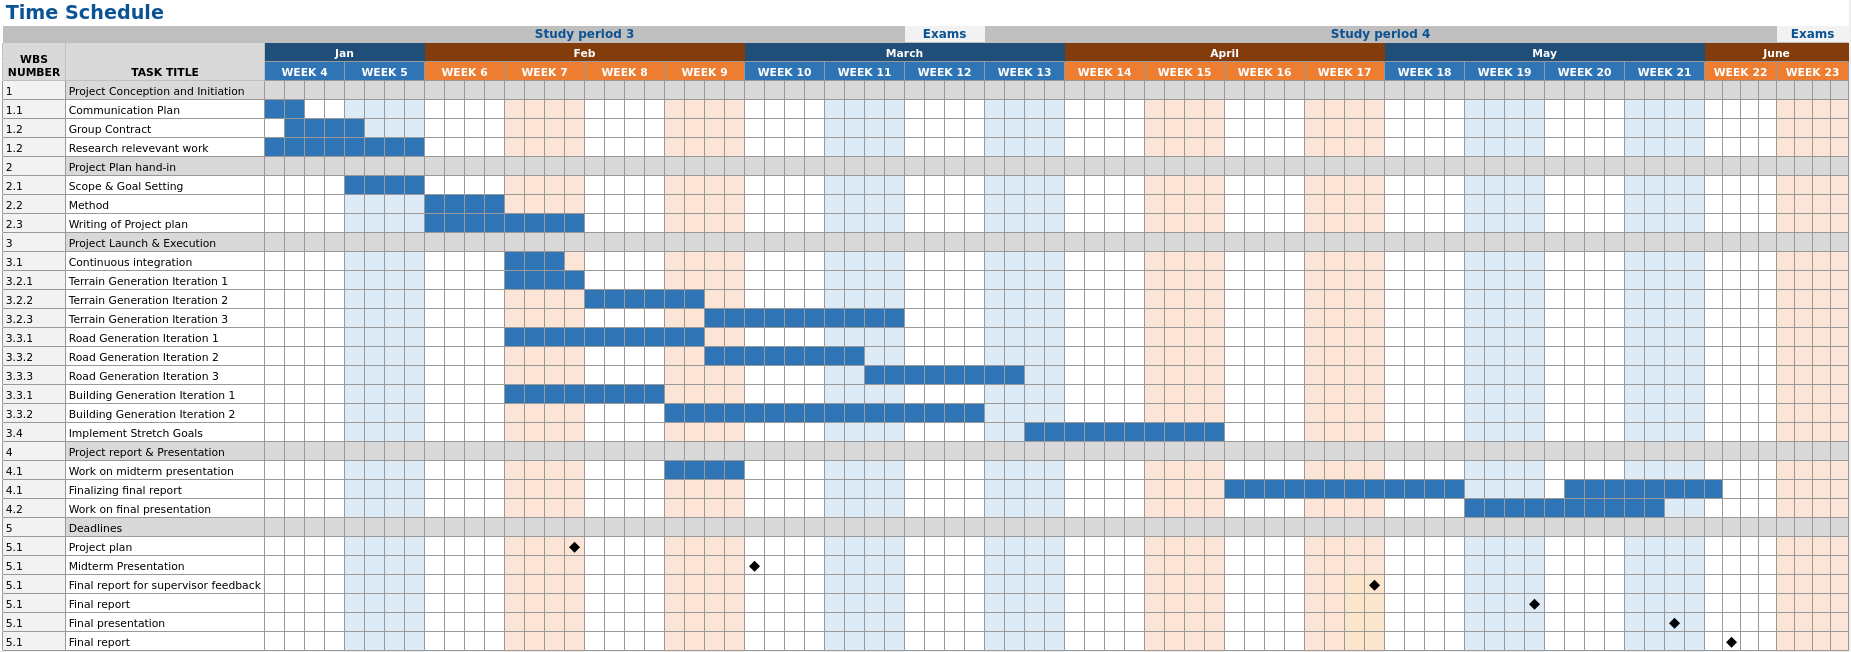
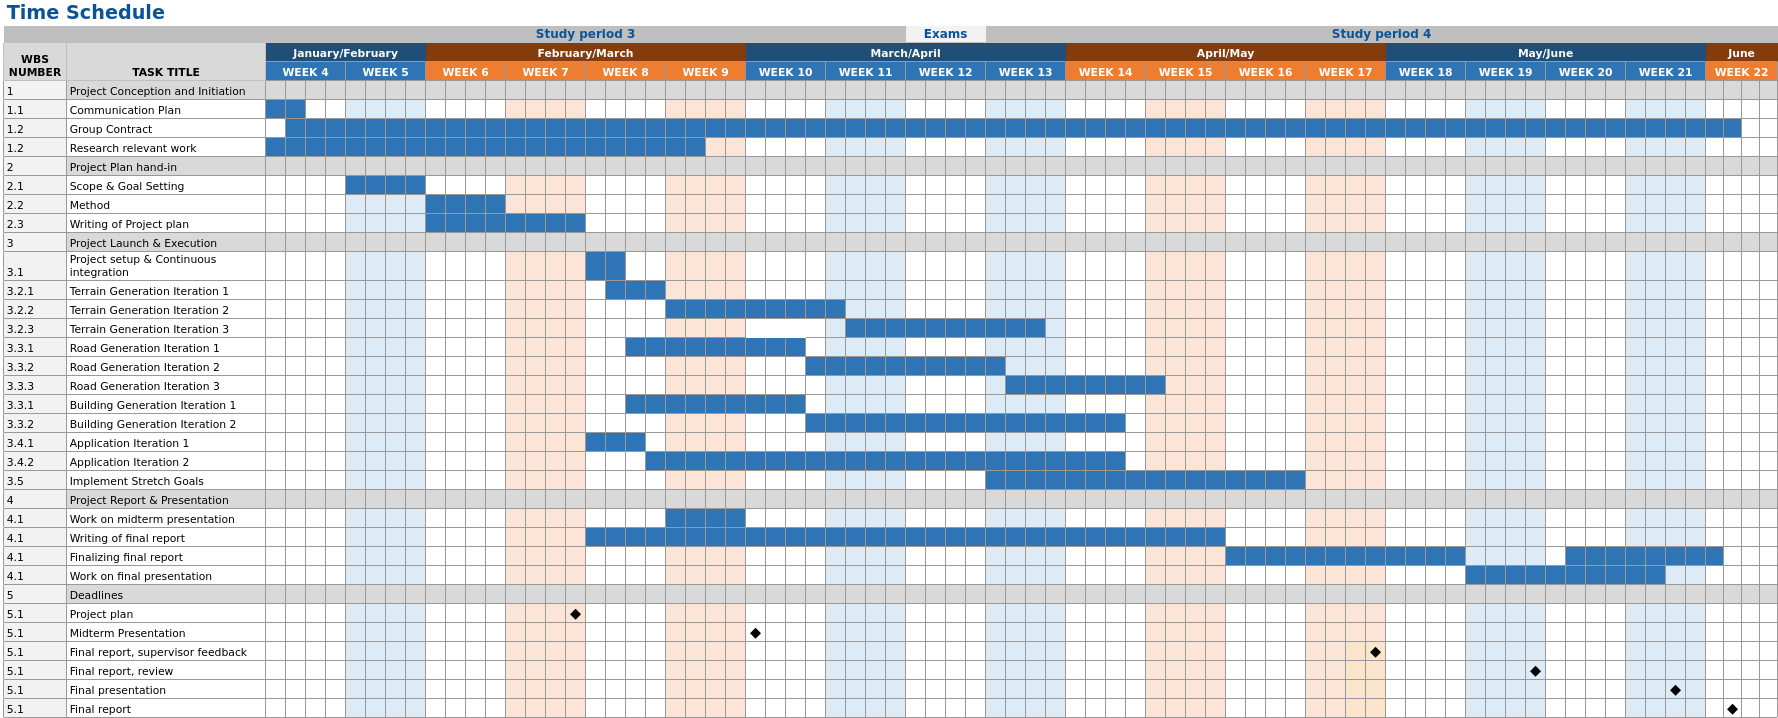
Added application iterations and update GANTT

diff --git a/tex/timeplan.tex b/tex/timeplan.tex
@@ -18,7 +18,7 @@ This approach will aid in working in a more cost-effective way when developing t
 
 Once all subtasks have undergone all iterations, our efforts will be targeted at fine-tuning the final solution as well as implementing as many of our stretch goals as possible.
 
-\subsubsection{Landscape Generation}
+\subsubsection{Terrain Generation}
 \begin{description}
   \item[Iteration 1] Generate a simple height-map terrain mesh.
   \item[Iteration 2] Texture the terrain based on height levels.
@@ -27,7 +27,6 @@ Once all subtasks have undergone all iterations, our efforts will be targeted at
 
 \subsubsection{Road Generation}
 \begin{description}
-  % \item[iteration 0] Convert bezier curve into a road mesh. % this can be developed alongside iteration 1 so it doesn't fit my stupid model...
   \item[Iteration 1] Procedurally generate a convincing road-network on a 2D plane.
   \item[iteration 2] Convert the conceptual road-network into a road mesh.
   \item[Iteration 3] When generating a road from point A to point B, take the height difference in the underlying terrain into account in order to create a natural looking path.
@@ -35,13 +34,25 @@ Once all subtasks have undergone all iterations, our efforts will be targeted at
 
 \subsubsection{Building Generation}
 \begin{description}
-  \item[Iteration 1] Procedurally generate simple block buildings of skyscrapers and villas.
+  \item[Iteration 1] Procedurally generate simple block buildings of skyscrapers, villas, terraced houses, apartments, and parks.
   \item[Iteration 2] Given a plot of land, populate it with suitably placed buildings.
+\end{description}
+
+\subsubsection{Application}
+\begin{description}
+  \item[Iteration 1]
+    This iteration should have a working button for generating the terrain, roads, and buildings.
+    The generated city should also be able to be exported to a \textit{.fbx} file.
+    The quality of the generated city at this iteration is not important but rather the functionality and project skeleton to expand upon.
+  \item[Iteration 2]
+    The user should be able to specify parameters that affect the generated world.
+    This includes parameters such as sea level and the world size.
+    Also, the user should be able to place population markers using different road strategies e.g.\ Paris, Manhattan, or Chaotic.
 \end{description}
 
 \subsection{Final report}
 When it comes to the final written report we are expected to continuously work on the final report during the development.
-However we have also set a three week period strictly dedicated to finalizing the report.
+However, we have also set a three-week period strictly dedicated to finalizing the report.
 At that point we expect the algorithm to be complete as to prioritize the final report.
 
 \subsection{Project plan chart}
@@ -52,7 +63,7 @@ To get an overview of our time plan we have decided to include a GANTT chart see
   \centering
   \vspace*{-1.0cm}
   \includegraphics[angle=90, width=0.5\textwidth]{figure/time-plan.png}
-  \caption{Time plan}
+  \caption{Time plan.}
   \label{fig:time-plan}
 \end{figure}
 
